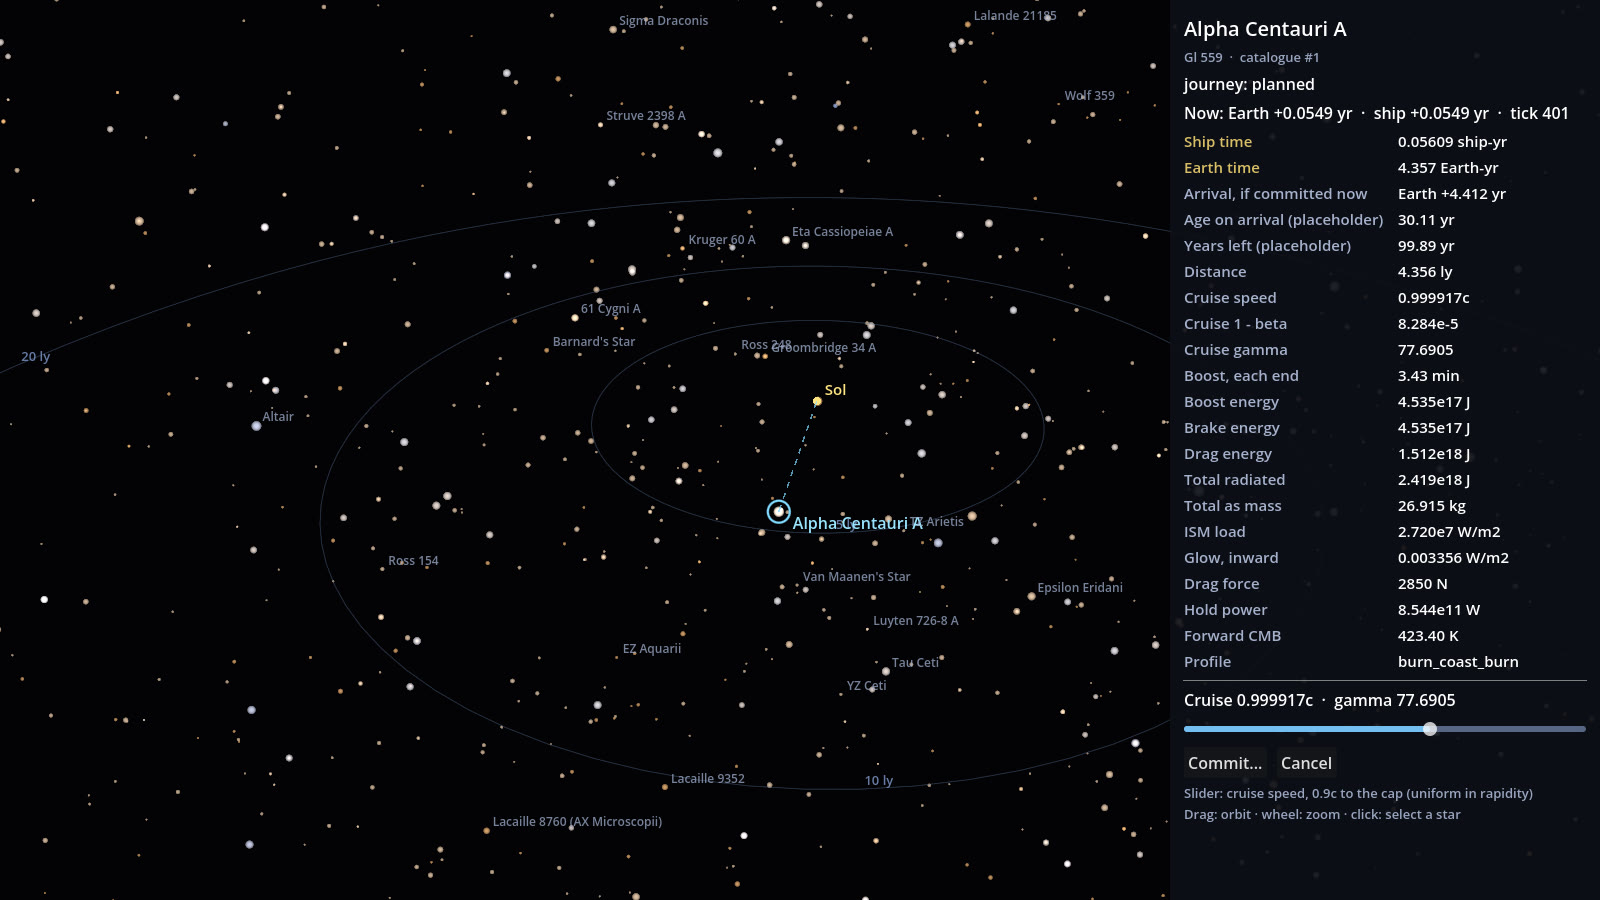
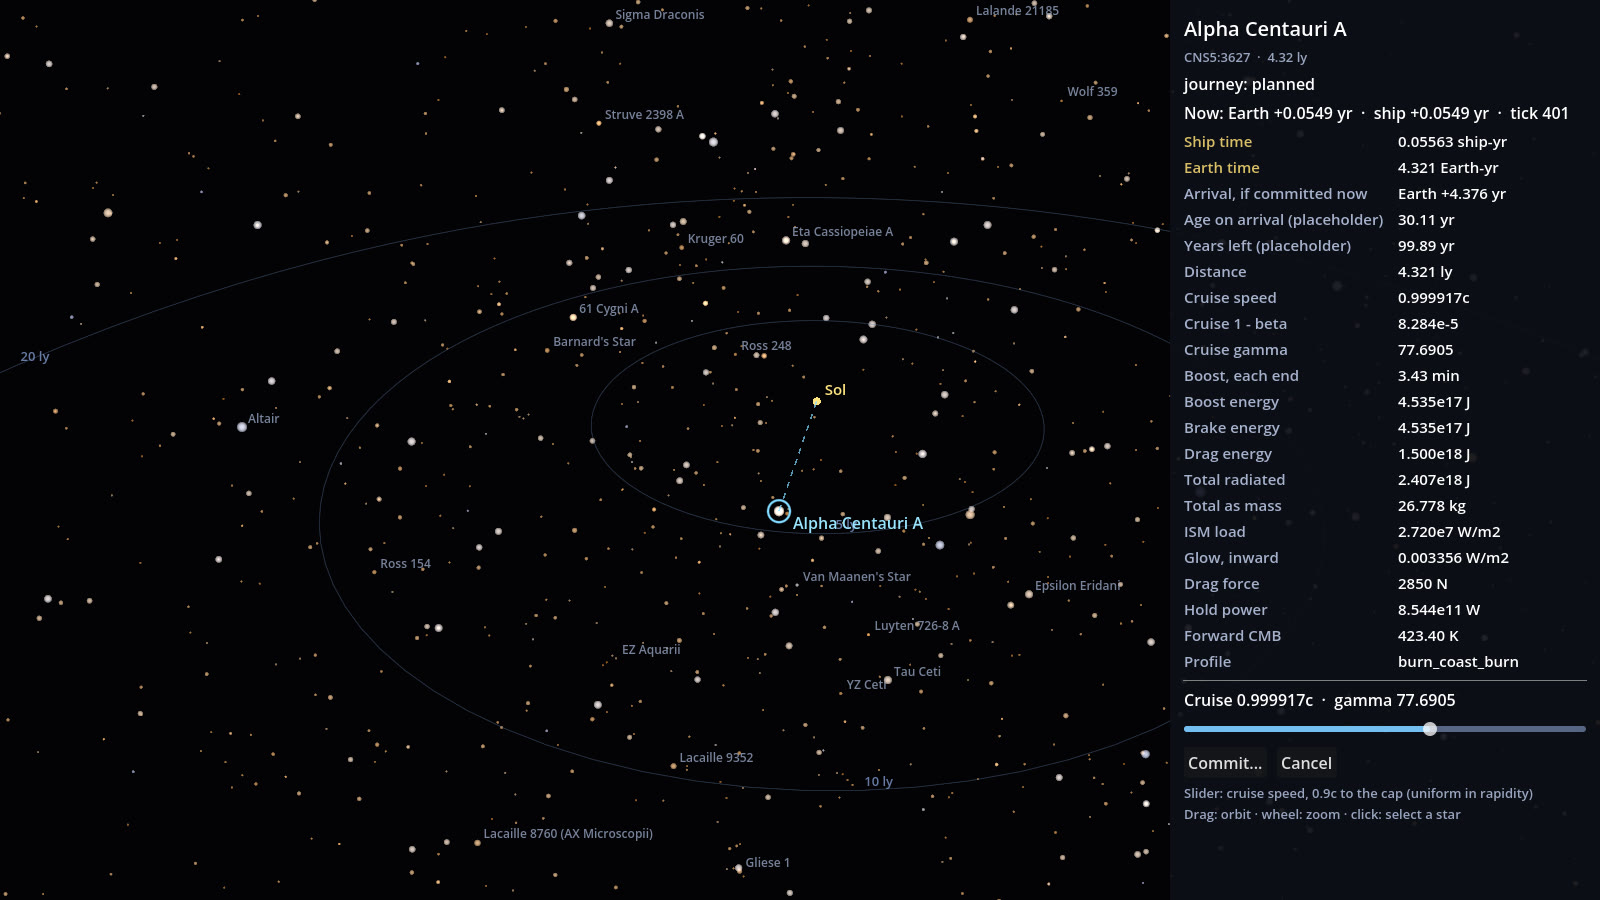
site: #97 and #99 merged; map clip and stills re-rendered from main
- Bridge v1 is "demo art, merged" (roadmap, concept art, news); M5.1a (#99)
  done on the roadmap and in the planets post; landing milestones updated.
- tools/site_movie.gd: the map clip finds alpha Cen A by its catalogue id
  (M1.7 changed the indices). Map clip re-rendered from main (post-#81
  catalogue: CNS5:3627 at 4.32 ly) and published; map stills re-cut from the
  clip and docs/m1.7; captions carry the new panel numbers.

Claude-Session: https://claude.ai/code/session_01Dvti2W94QfXDcYLoyzr7n3

diff --git a/website/src/data/gallery.js b/website/src/data/gallery.js
@@ -55,35 +55,35 @@ const GALLERY = [
     file: 'map-plan.jpg',
     title: 'Galaxy map: plan a journey',
     caption:
-      'Every number on the panel comes from the AILANG simulation: ship-years, Earth-years, boost energy, drag, the forward CMB temperature. Here: α Centauri A at 0.999917c, 0.056 ship-years against 4.357 Earth-years.',
+      'Every number on the panel comes from the AILANG simulation: ship-years, Earth-years, boost energy, drag, the forward CMB temperature. Here: α Centauri A at 0.999917c, 0.0556 ship-years against 4.321 Earth-years.',
     group: 'map',
   },
   {
     file: 'map-commit.jpg',
     title: 'Commit, and you cannot take it back',
     caption:
-      '"A commitment cannot be undone. Hold for 1.5 s to commit." At 0.99c, 0.6208 years for you and 4.400 for everyone at home.',
+      '"A commitment cannot be undone. Hold for 1.5 s to commit." At 0.99c, 0.6157 years for you and 4.365 for everyone at home.',
     group: 'map',
   },
   {
     file: 'map-transit.jpg',
     title: 'In transit: Cancel is refused',
     caption:
-      'The simulation, not the UI, owns the commit rule. Mid-cruise the ship clock reads +0.32 yr while Earth\'s reads +2.27 yr.',
+      'The simulation, not the UI, owns the commit rule. Mid-cruise the ship clock reads +0.32 yr while Earth\'s reads +2.24 yr.',
     group: 'map',
   },
   {
     file: 'map-arrived.jpg',
     title: 'Arrival',
     caption:
-      'Arrived at α Centauri A: +0.6257 years on the ship clock, +4.4054 on Earth\'s. The energy radiated over the whole trip equals the plan, 6.123e17 J.',
+      'Arrived at α Centauri A: +0.6212 years on the ship clock, +4.3702 on Earth\'s. The energy radiated over the whole trip equals the plan, 6.112e17 J.',
     group: 'map',
   },
   {
     file: 'map-overview.jpg',
     title: 'The neighbourhood, from the real catalogues',
     caption:
-      'The galaxy map drawn from the binary catalogue tiers, Sol at the centre (the M1.7 catalogue switch).',
+      'The galaxy map drawn from the binary catalogue tiers: the 5,687 stars within 25 pc, Sol at the centre (M1.7).',
     group: 'map',
   },
 ];

diff --git a/website/src/pages/concept-art.js b/website/src/pages/concept-art.js
@@ -139,12 +139,12 @@ export default function ConceptArt() {
         <section className={styles.block}>
           <div className={styles.blockHead}>
             <h2>The bridge, v1</h2>
-            <Pill kind="review">Demo art, in review</Pill>
+            <Pill kind="done">Demo art, merged</Pill>
           </div>
           <p className={styles.note}>
-            The first real interior, approved for the playable demo and replacing the blockout (game{' '}
-            <a href="https://github.com/sunholo-data/stapledons-godot/pull/97">PR #97</a>, open). It will be
-            revisited by the v2 work below.
+            The first real interior, merged as demo art for the playable journey, replacing the blockout
+            (game <a href="https://github.com/sunholo-data/stapledons-godot/pull/97">PR #97</a>). The v2 work
+            below will revisit it.
           </p>
           {BRIDGE_V1.map((it) => (
             <Wide key={it.file} it={it} base={base} />

diff --git a/website/src/pages/index.js b/website/src/pages/index.js
@@ -447,8 +447,8 @@ const MILESTONES = [
   ['M1', 'The relativistic sky', 'progress', '335k stars, Milky Way, exposure, forward CMB, real-catalogue map; acceptance step open'],
   ['M2', 'The journey core', 'done', 'Planner, commit, two clocks, deterministic replay'],
   ['AI', 'Crew AI foundation', 'done', 'Opt-in, cost-capped, on a test stub; first live run pending'],
-  ['M4', 'First playable journey', 'progress', 'Interior loader and consequence sim merged; bridge art in review'],
-  ['M5', 'Planets and flybys', 'progress', 'Design approved, physics packages published'],
+  ['M4', 'First playable journey', 'progress', 'Interior loader, consequence sim and bridge v1 merged'],
+  ['M5', 'Planets and flybys', 'progress', 'Design approved, packages published, system data merged'],
   ['M3', 'Black holes', 'planned', 'Shadow, lensing, Einstein rings, checked against GR'],
 ];
 const LABEL = {done: 'Done', progress: 'In progress', planned: 'Planned'};

diff --git a/website/docs/roadmap.md b/website/docs/roadmap.md
@@ -27,8 +27,8 @@ when, see [News](/news).
 | M2 The journey core | <span className="sv-status sv-status--done">Done</span> |
 | AI foundation (AI.1–AI.10a) | <span className="sv-status sv-status--done">Done</span> on the stub; the first live run (AI.10b) is pending |
 | M3 Black holes | <span className="sv-status sv-status--planned">Planned</span> |
-| M4 First playable journey | <span className="sv-status sv-status--progress">In progress</span>: M4.0 and M4.1 step 1 merged |
-| M5 Planets and flybys | <span className="sv-status sv-status--progress">In progress</span>: design and sprint approved, packages published, first step in review |
+| M4 First playable journey | <span className="sv-status sv-status--progress">In progress</span>: M4.0, M4.1 step 1 and bridge v1 merged |
+| M5 Planets and flybys | <span className="sv-status sv-status--progress">In progress</span>: design and sprint approved, packages published, the first step (M5.1a) merged |
 
 ## M0: Spike <span className="sv-status sv-status--done">Done</span>
 
@@ -91,7 +91,7 @@ One complete journey with the ship's interior: the ship-years against Earth-year
 |---|---|---|
 | M4.0 | Area bundles: the interior loader, the art contract checks (`make validate-areas`), the ship frame; art swaps become data drops ([#95](https://github.com/sunholo-data/stapledons-godot/pull/95)) | <span className="sv-status sv-status--done">Done</span> |
 | M4.1 step 1 | Consequence in the simulation: the Earth clock running on while you travel, the years gap, the 1,000 AU arrival stand-off, light-delayed news from home, live interstellar-medium readouts (protocol 2.2, [#92](https://github.com/sunholo-data/stapledons-godot/pull/92)) | <span className="sv-status sv-status--done">Done</span> |
-| Bridge v1 interior art | Approved for the demo, replacing the blockout ([#97](https://github.com/sunholo-data/stapledons-godot/pull/97)) | <span className="sv-status sv-status--review">In review</span> |
+| Bridge v1 interior art | Demo art, replacing the blockout ([#97](https://github.com/sunholo-data/stapledons-godot/pull/97)) | <span className="sv-status sv-status--done">Done</span> |
 | Bridge v2 final art | A quality study is done; the final art is being made ([concept art](/concept-art)) | <span className="sv-status sv-status--progress">In progress</span> |
 | M4.2 | The interior composite: deck, panorama and live sky in one image | <span className="sv-status sv-status--planned">Planned</span> |
 | M4.3a, M4.3b | Transit, time warp and the HUD | <span className="sv-status sv-status--planned">Planned</span> |
@@ -112,7 +112,7 @@ known and candidate planets show as points only, with badges that say how sure t
 | Step | State |
 |---|---|
 | Package work: [`sunholo/celestial`](https://github.com/sunholo-data/ailang-packages/tree/main/packages/celestial) 0.1.0 (Kepler solver, JPL planetary ephemerides for 3000 BC–3000 AD and moons, IAU frames, light-time, gravity, reflectance, rings) and `sunholo/relativity` 0.6 and 0.7 (the bubble's forward glow, the aberrated outline of a nearby sphere) | <span className="sv-status sv-status--done">Published</span> |
-| M5.1a: Sol and α Cen data, and the game pinning the new packages ([#99](https://github.com/sunholo-data/stapledons-godot/pull/99)) | <span className="sv-status sv-status--review">In review</span> |
+| M5.1a: Sol and α Cen data, and the game pinning the new packages ([#99](https://github.com/sunholo-data/stapledons-godot/pull/99)) | <span className="sv-status sv-status--done">Done</span> |
 | M5.1b–M5.8: the system map, lighting, rings, flyby flight and views | <span className="sv-status sv-status--planned">Planned</span> |
 
 ## After Release 1

diff --git a/website/docs/intro.md b/website/docs/intro.md
@@ -55,7 +55,7 @@ The game is **pre-alpha**. Release 1 builds the foundations, and is partly done:
   deterministic replay); and, on a test stub, the crew's optional AI layer with the Medic's
   conversation scene.
 - **In progress:** the first playable journey through the ship's interior (M4, its first steps
-  merged, the bridge art in review), and planets and flybys inside a star system (M5, a new
+  merged, including the first bridge art), and planets and flybys inside a star system (M5, a new
   milestone whose physics packages are published).
 - **Planned for Release 1:** black holes rendered to general relativity (M3).
 - **After Release 1:** the wider game: a galaxy that changes while you travel, a finite crew,

diff --git a/website/news/2026-10-03-concept-art-the-captain-and-the-bridge.md b/website/news/2026-10-03-concept-art-the-captain-and-the-bridge.md
@@ -18,7 +18,7 @@ stands in the engine over the live sky.
   proposals, and drawn front and back at 30, 50, 70 and 90, because the game spans a 100-year
   career.
 - **Crew cast proposals**: one portrait per role, next to the Medic's accepted set.
-- **Bridge v1** ([#97](https://github.com/sunholo-data/stapledons-godot/pull/97), in review): the first real interior, a disc at the top of the
+- **Bridge v1** ([#97](https://github.com/sunholo-data/stapledons-godot/pull/97), demo art): the first real interior, a disc at the top of the
   spire inside the sphere ship. The sky behind the railings is not painted; it is the game's live
   sky, through the same camera, so at 0.99c it crowds forward and turns blue.
 

diff --git a/website/news/2026-10-03-planets-are-coming.md b/website/news/2026-10-03-planets-are-coming.md
@@ -26,6 +26,6 @@ systems), choose to stop or fly by at 0.001c to 0.99c, commit, and ride the leg.
 exact: light-time delay, aberration, and the Terrell rotation that makes a passing sphere look
 turned. At α Centauri, the known and candidate planets will show as points only, with a badge
 saying how sure the astronomy is. The first step, the Sol and α Cen data and the game's package
-pins, is in review ([#99](https://github.com/sunholo-data/stapledons-godot/pull/99)).
+pins, has merged ([#99](https://github.com/sunholo-data/stapledons-godot/pull/99)).
 
 See the [roadmap](/docs/roadmap).
